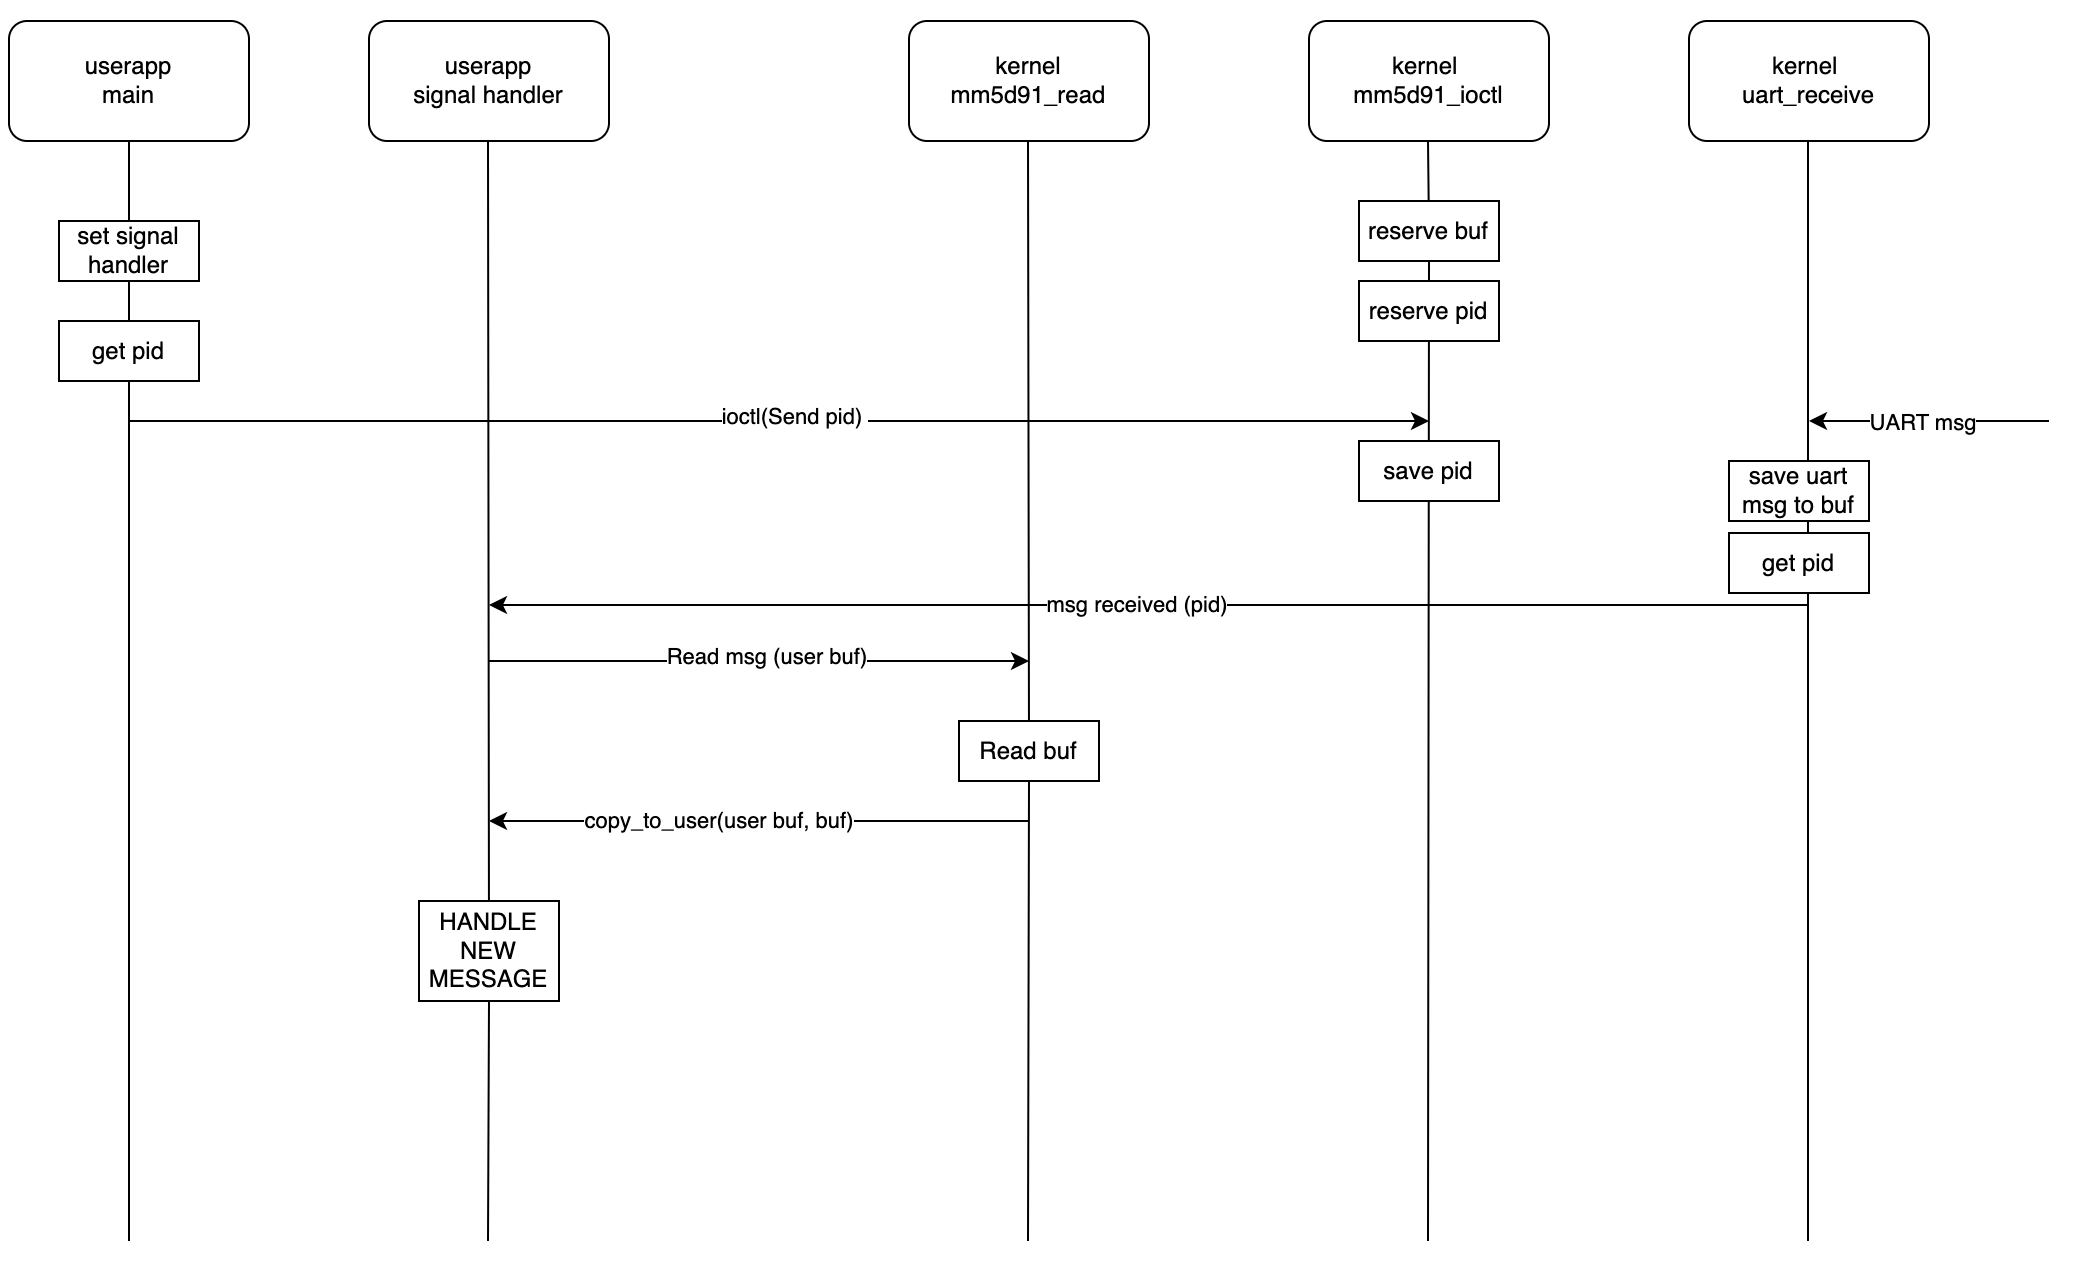
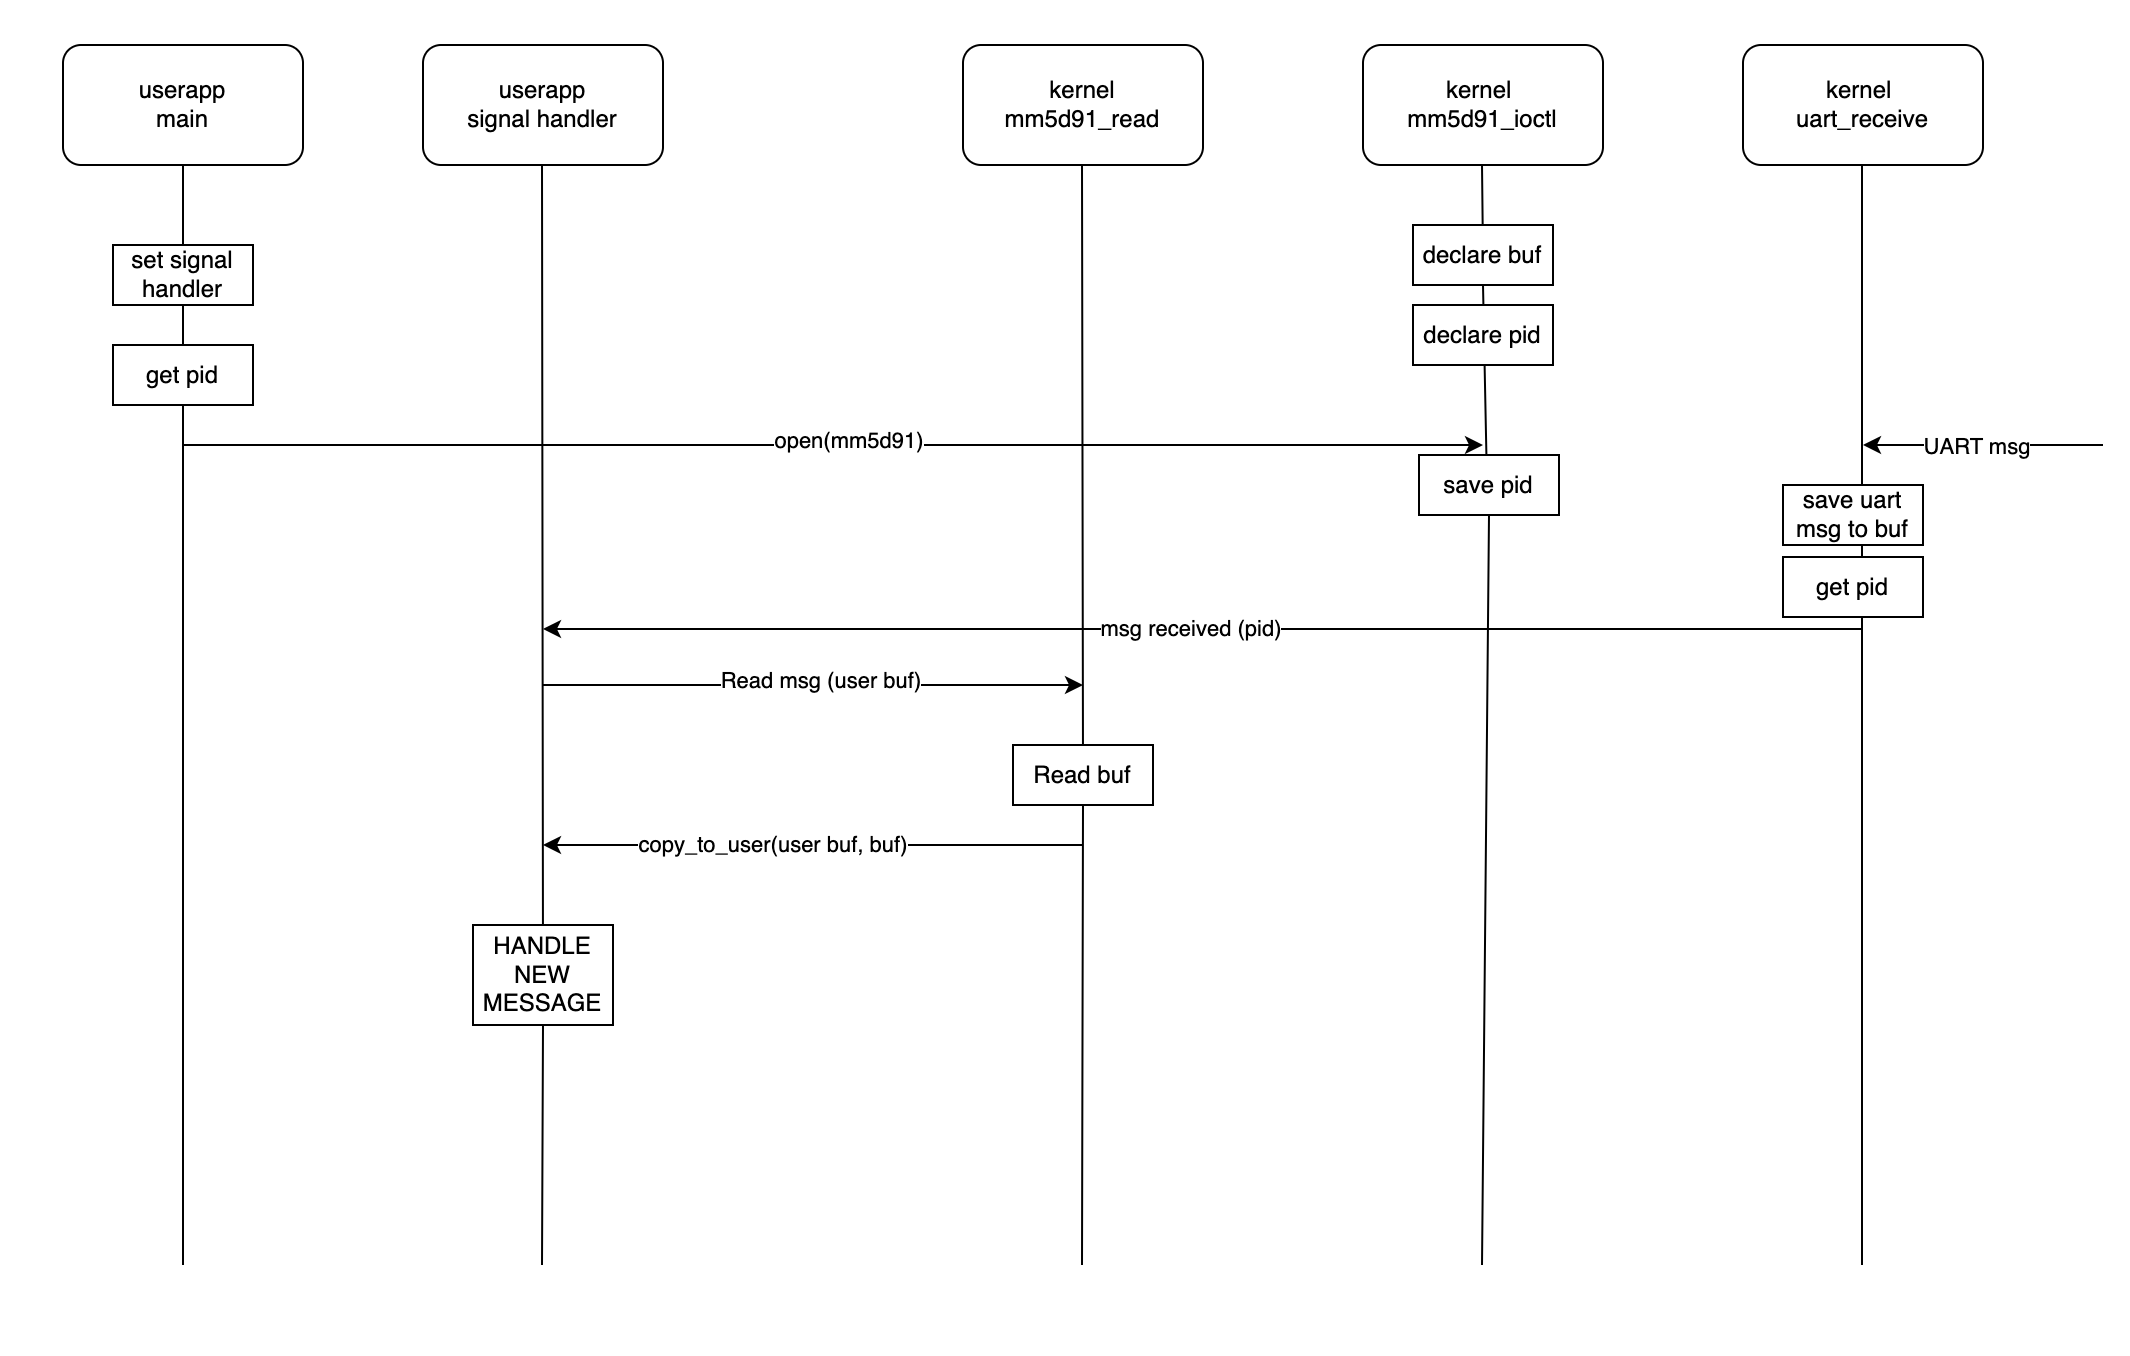
Simplified PID transfer from userapp to driver

diff --git a/mm5d91_driver.c b/mm5d91_driver.c
@@ -13,7 +13,7 @@
 static unsigned int mm5d91_reserved = 0;
 static int sig_pid = 0;
 static struct task_struct *sig_tsk = NULL;
-static int sig_tosend = SIGKILL;
+static int sig_tosend = SIGUSR1;
 
 /******************** USER SIDE FUNCTIONS *******************/
 int base_minor = 0;
@@ -111,6 +111,8 @@ static int mm5d91_open(struct inode *inode, struct file *file)
 	//pr_info("%s\n", __func__);
 	if (!mm5d91_reserved){
 		mm5d91_reserved++;
+		sig_pid = task_pid_nr(current);
+		sig_tsk = pid_task(find_vpid(sig_pid), PIDTYPE_PID);
 	} else {
 		return -EBUSY;
 	}
@@ -123,7 +125,7 @@ static int mm5d91_release(struct inode *inode, struct file *file)
 	mm5d91_reserved = 0;
 	sig_pid = 0;
 	sig_tsk = NULL;
-	sig_tosend = SIGKILL;;
+	//sig_tosend = SIGKILL;;
     return 0;
 }
 
@@ -172,27 +174,11 @@ static ssize_t mm5d91_write(struct file *file, const char __user *user_buffer,
  * Gets pid from user space process and saves it to global variable.
  */
 static ssize_t mm5d91_ioctl(struct file *file,  unsigned int cmd, unsigned long arg) {
-	int ok = 0;
-	struct pid_sig_t p_s; 
 	if (_IOC_TYPE(cmd) != IOCTL_NUMBER) return -ENOTTY;
 	if (_IOC_NR(cmd) > IOCTL_MAX_CMDS) return -ENOTTY;
 	
 	switch(cmd)
 	{
-		case IOCTL_SET_PID_SIG:
-			ok = access_ok((void __user *)arg, sizeof(struct pid_sig_t));
-			if (ok) {
-				if (copy_from_user(&p_s, (struct pid_sig_t*)arg, sizeof(struct pid_sig_t)))
-            	{
-                	return -EACCES;
-            	}
-				sig_pid = (int)p_s.pid;
-				sig_tosend = (int)p_s.sig;
-				sig_tsk = pid_task(find_vpid(sig_pid), PIDTYPE_PID);
-			} else {
-				return ok;
-			}
-			break;
 		case IOCTL_SEND_SIGNAL:	// to be used for future purposes
 			break;
 		case IOCTL_GET_MSG_LEN:

diff --git a/usertestapp.c b/usertestapp.c
@@ -29,23 +29,14 @@ void signal_handler(int sig)
 
 int main(int argc, char *argv[])
 {
-	
-	struct pid_sig_t p_s;
-	pid_t pid = getpid();
-	p_s.pid = (int)pid;
-	int snd_signal = SIGUSR1;
-	p_s.sig = (int)snd_signal;
-
-	printf("PROCESS PID:%d\n", pid);
-
-	signal(p_s.sig, signal_handler);
+	signal(SIGUSR1, signal_handler);
 	fd = open("/dev/mm5d91", O_RDWR);
 	if (fd < 0) {
 		perror("fd failed");
 		exit(2);
 	}
 
-	ioctl(fd, IOCTL_SET_PID_SIG, &p_s);
+	//ioctl(fd, IOCTL_SET_PID_SIG, &p_s);
 	getchar();
 	ioctl(fd, IOCTL_SEND_SIGNAL);
 	perror("ioctl");

diff --git a/mm5d91_ioctl.h b/mm5d91_ioctl.h
@@ -2,15 +2,15 @@
 #define __IOCTL_CMDS_H
 
 
-struct pid_sig_t{
-    int pid;
-    int sig;
-};
+// struct pid_sig_t{
+//     int pid;
+//     int sig;
+// };
 #define BUFFER_LENGTH       128u
 
 #define IOCTL_NUMBER        0x21
 
-#define IOCTL_SET_PID_SIG   _IOW(IOCTL_NUMBER, 1, struct pid_sig_t *)
+//#define IOCTL_SET_PID_SIG   _IOW(IOCTL_NUMBER, 1, struct pid_sig_t *)
 #define IOCTL_GET_MSG_LEN   _IOWR(IOCTL_NUMBER, 2, int *)
 #define IOCTL_SEND_SIGNAL   _IO(IOCTL_NUMBER, 3)
 
